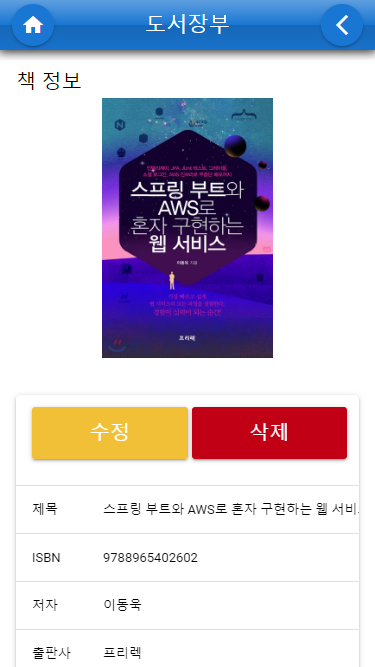
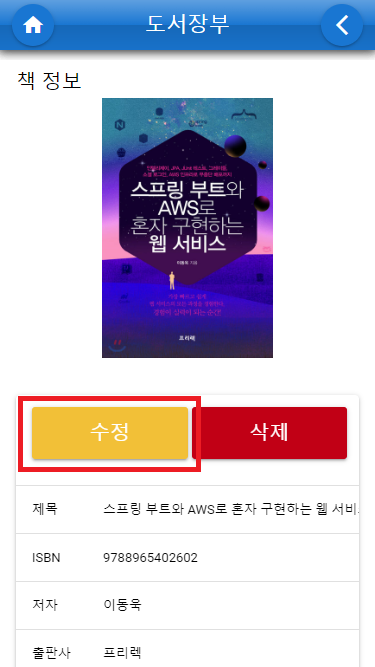
GitBook: [#27] No subject

Changed region(s): [[0.0293, 0.5697, 0.5573, 0.7196]]

diff --git a/undefined-1.md b/undefined-1.md
@@ -1,3 +1,12 @@
 # 이 프로젝트는?
 
+### 간단한 프로젝트 설명
+
+1. 회원 전용.
+2. 로그인 한 회원은 자신의 로그인 정보를 이용해 책을 저장하고 조회할 수 있다.
+3. 책의 모든 정보를 직접 입력하기 불편하다면, ISBN을 이용해 책 정보를 자동으로 스크레이핑 해올 수 있다.
+4.
+
+### 만들게 된 이유
+
 퇴사 후, 새로운 기술에 대해 독학 하면서 지금까지 구매한 책을 관리할 애플리케이션이 있으면 좋을 것 같아서 시작하게 된 프로젝트입니다. 이 프로젝트에서는 지난 약 3개월 간 독학하면서 배운 내용에 대한 집대성 같은 존재라고 볼 수 있습니다.

diff --git a/undefined-4/undefined-5.md b/undefined-4/undefined-5.md
@@ -1,2 +1,9 @@
 # 책 수정
 
+(1) 책의 자세한 정보를 보여주는 화면에서 수정 버튼을 클릭합니다.
+
+<figure><img src="../.gitbook/assets/2022-09-11 14_55_56-Book Management 외 페이지 1개 - 개인 - Microsoft Edge.png" alt=""><figcaption></figcaption></figure>
+
+(2) 변경하고자 하는 내용을 입력해 주고 수정 버튼을 클릭합니다.
+
+<figure><img src="../.gitbook/assets/2022-09-11 15_05_43-Book Management 외 페이지 1개 - 개인 - Microsoft Edge (1).png" alt=""><figcaption></figcaption></figure>

diff --git a/undefined-4/undefined-4.md b/undefined-4/undefined-4.md
@@ -11,4 +11,4 @@
 
 (3) 조회 된 책을 클릭하면 좀 더 자세한 정보를 볼 수 있습니다.
 
-<figure><img src="../.gitbook/assets/2022-09-11 14_55_56-Book Management 외 페이지 1개 - 개인 - Microsoft Edge.png" alt=""><figcaption></figcaption></figure>
+<figure><img src="../.gitbook/assets/2022-09-11 14_55_56-Book Management 외 페이지 1개 - 개인 - Microsoft Edge (1).png" alt=""><figcaption></figcaption></figure>

diff --git a/undefined-4/undefined-6.md b/undefined-4/undefined-6.md
@@ -1,2 +1,6 @@
 # 책 삭제
 
+(1) 책의 자세한 정보를 보여주는 화면에서 삭제 버튼을 클릭합니다.
+
+<figure><img src="../.gitbook/assets/2022-09-11 14_55_56-Book Management 외 페이지 1개 - 개인 - Microsoft Edge (2).png" alt=""><figcaption></figcaption></figure>
+

diff --git a/SUMMARY.md b/SUMMARY.md
@@ -18,3 +18,4 @@
   * [책 조회](undefined-4/undefined-4.md)
   * [책 수정](undefined-4/undefined-5.md)
   * [책 삭제](undefined-4/undefined-6.md)
+* [진행하며 아쉬웠던 점](undefined-5.md)

diff --git a/undefined-5.md b/undefined-5.md
@@ -1,0 +1,2 @@
+# 진행하며 아쉬웠던 점
+
